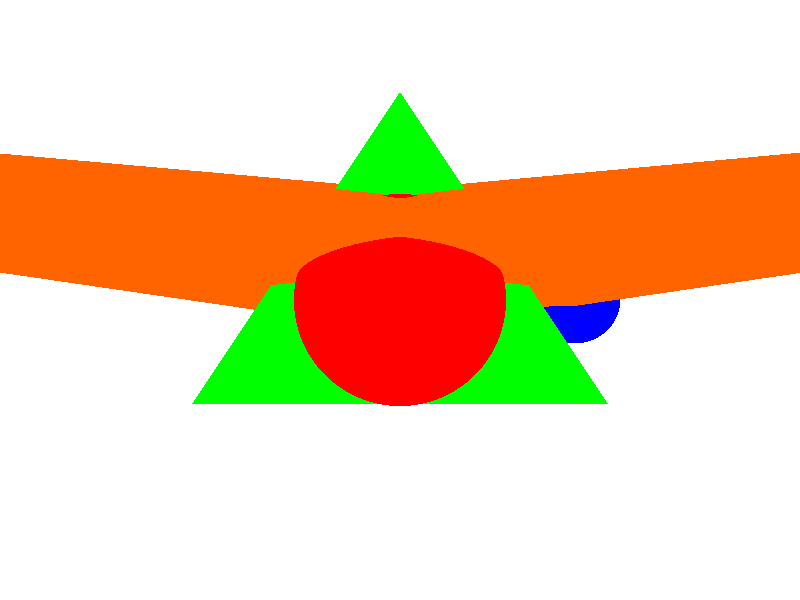
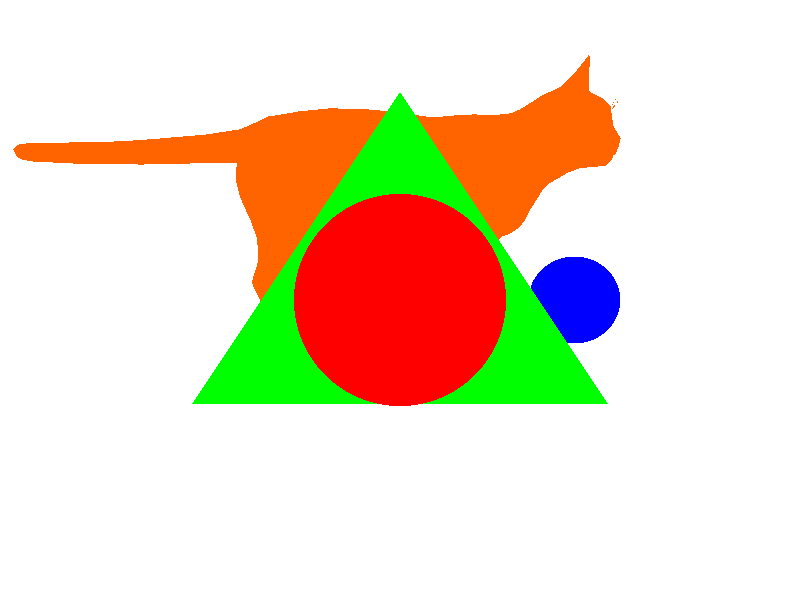
redundancy check
Lots of redundancy was detected and further changes are about to be made

Changed region(s): [[0.0, 0.09, 1.0, 0.51]]

diff --git a/Raytracer/raytracer/src/Obj.java b/Raytracer/raytracer/src/Obj.java
@@ -13,7 +13,7 @@ public class Obj extends Object3D {
         objBuilder(Vertices, id);
     }
 
-    // We use the following method to move the object around our scene
+    /* We use the following method to move the object around our scene    <-------- Redundant
     public void translate(double dx, double dy, double dz) {
         triangles.clear();
         ArrayList<Double> translatedVertices = new ArrayList<>();
@@ -26,9 +26,9 @@ public class Obj extends Object3D {
 
         // We reconstruct the triangles with the now moved vertices
         rebuildTriangles(translatedVertices);
-    }
+    } */
 
-    // We scale the object in x, y, z
+    /* We scale the object in x, y, z       <---------- Redundant
     public void scale(double sx, double sy, double sz) {
         triangles.clear();
         ArrayList<Double> scaledVertices = new ArrayList<>();
@@ -45,16 +45,16 @@ public class Obj extends Object3D {
     // we can also scale uniformly in x, y, z by applying the same constant to all vertices
     public void scale(double s) {
         scale(s, s, s);
-    }
+    } */
 
-    // Receives moved/scaled vertices --> reconstructs all the triangles
+    /* Receives moved/scaled vertices --> reconstructs all the triangles <------- redundant
     private void rebuildTriangles(ArrayList<Double> vertices) {
         // We do not need to read all the ids once more, because before calling this method the ids are read beforehand
         // ONLY uses previously processed vertices
         for (Triangle t : new ArrayList<>(triangles)) {
             // We create triangles --> we update the list
         }
-    }
+    } */
 
     public void objBuilder(ArrayList<Double> Vertices, ArrayList<Integer> id){
         /*used for debugging <---------------

diff --git a/Raytracer/raytracer/src/Raytracer.java b/Raytracer/raytracer/src/Raytracer.java
@@ -36,12 +36,12 @@ public class Raytracer {
 
         // Adds Obj to the scene
         OBJreader reader = new OBJreader(
-                "objects/star.obj",           // obj's path
+                "objects/cat.obj",           // obj's path
                 new int[]{255, 100, 0},     // Color (orange)
-                1.0,                         // Scale
+                0.009,                         // Scale
                 0,                           // translateX
                 -0.5,                        // translateY
-                -8                           // translateZ
+                -5.9                           // translateZ
         );
         scene.addObject(reader.getObj());
 

diff --git a/Raytracer/raytracer/src/OBJreader.java b/Raytracer/raytracer/src/OBJreader.java
@@ -8,12 +8,12 @@ public class OBJreader {
     public ArrayList<Integer> id = new ArrayList<>();
     private Obj obj; // we save the created object
 
-    // Constructor with no transformation (the obj as it is)
+    /* Constructor with no transformation (the obj as it is)
     public OBJreader(String filename, int[] color) {
         verticesReader(filename); // we gather all the file's vertices
         instructionReader(filename); // we gather the instructions to build the object's faces
         obj = objBuilder(vertices, id, color);
-    }
+    }*/
 
     // Constructor with transformations
     public OBJreader(String filename, int[] color, double scale, double translateX, double translateY, double translateZ) {